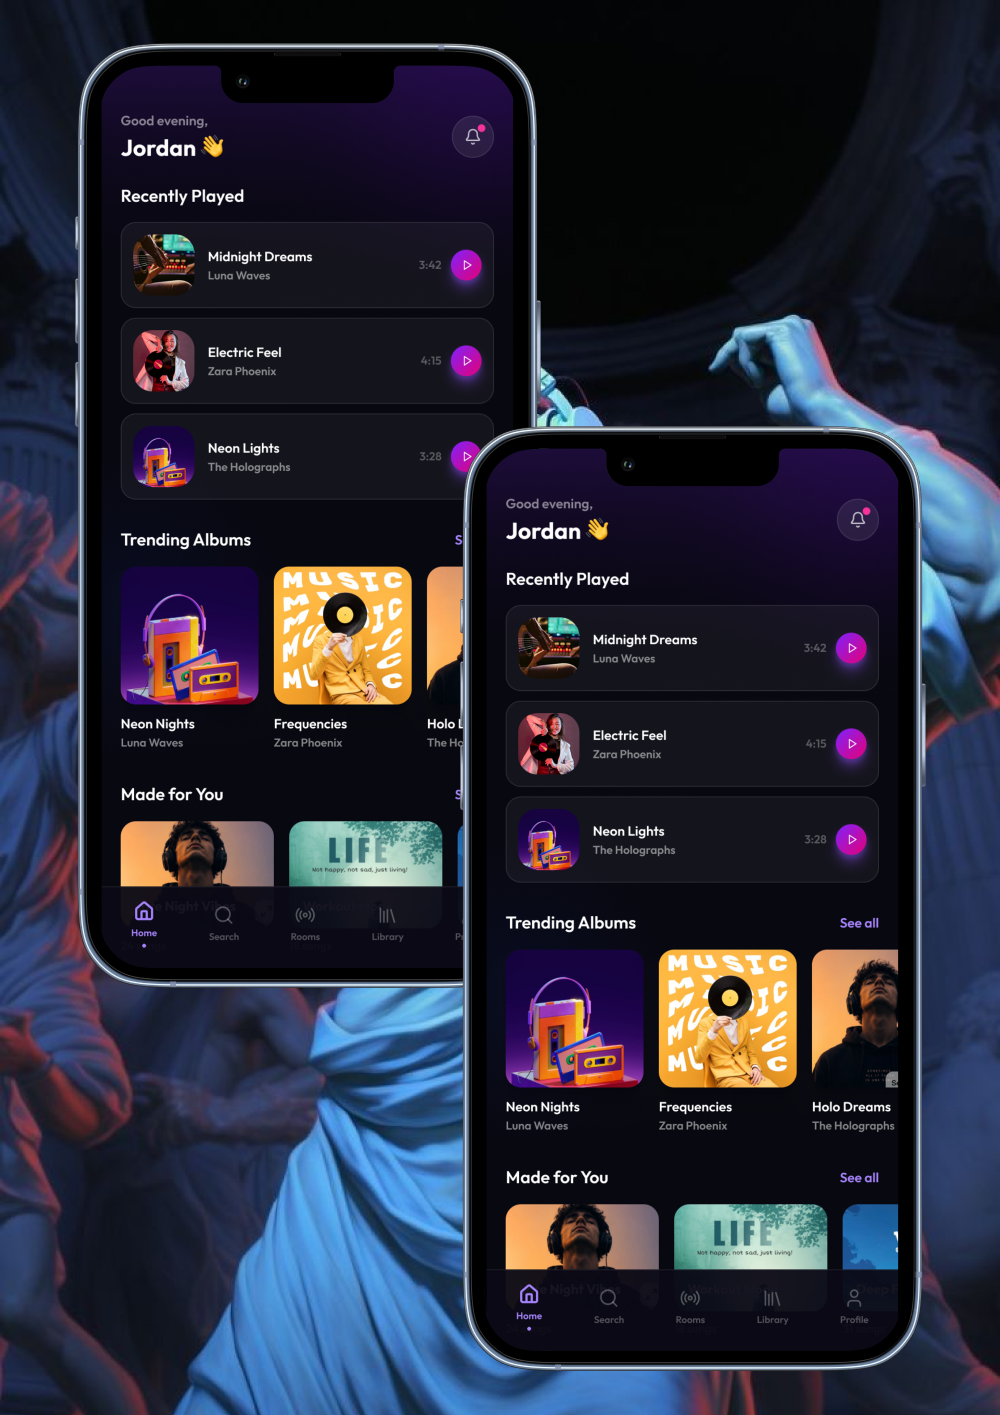
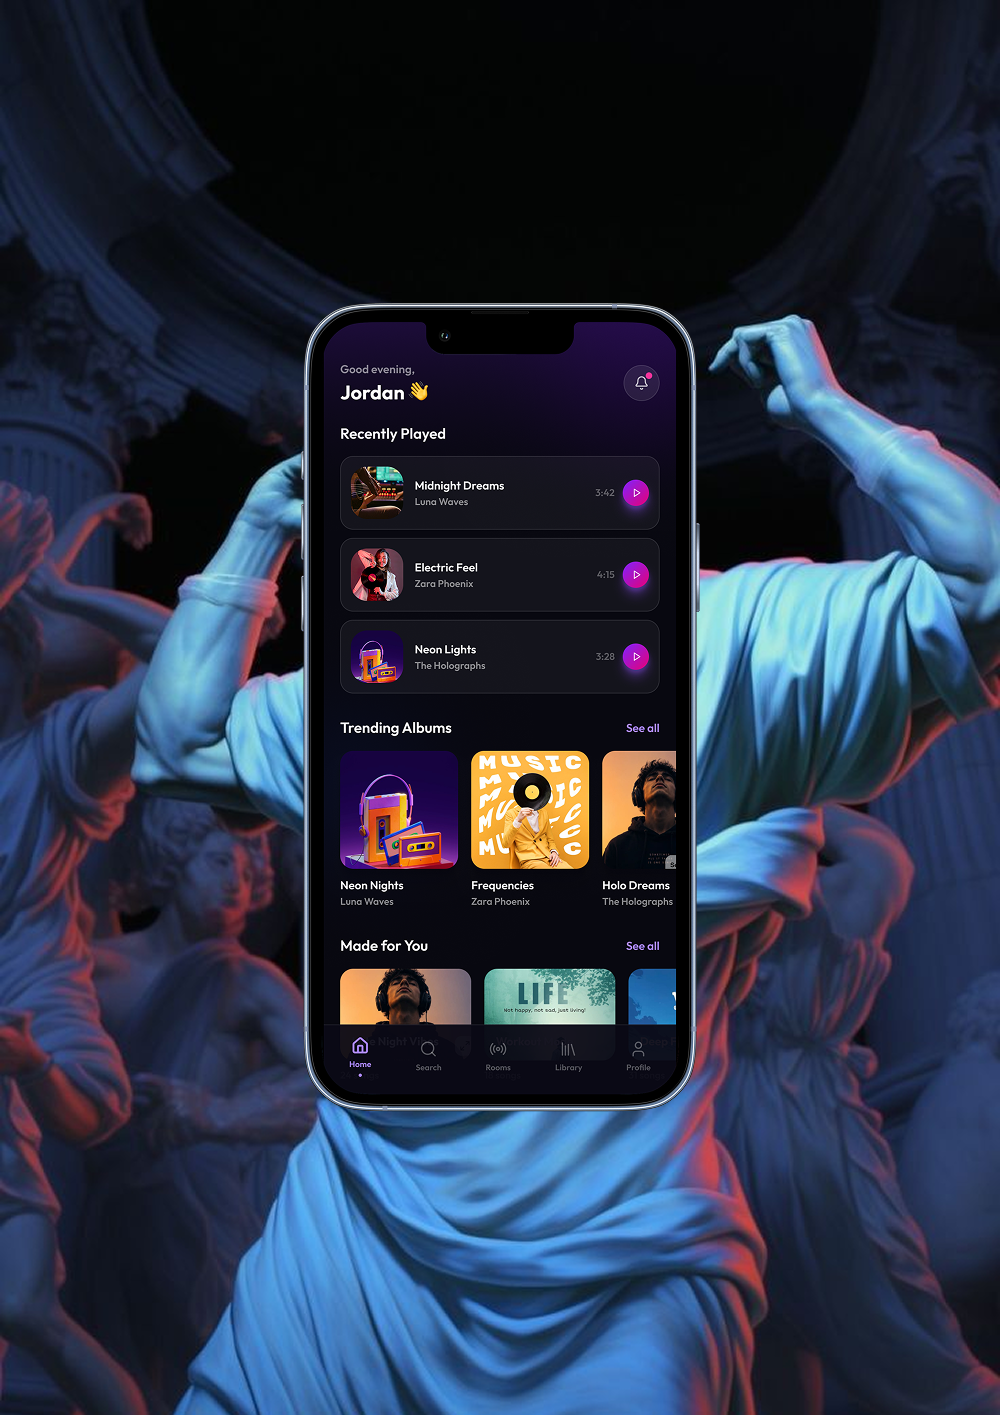
Updated Chnages

diff --git a/My Website/home-1.html b/My Website/home-1.html
@@ -424,20 +424,20 @@
                         <div class="col-md-6 col-lg-3">
 
                             <a href="project.html" class="mil-portfolio-item mil-square-item mil-up mil-mb-30">
-                                <img src="img/covers/4.jpg" alt="cover">
+                                <img src="img/covers/Mcare.png" alt="cover">
                                 <div class="mil-project-descr">
-                                    <h4 class="mil-upper mil-mb-20">Horizontal elevator</h4>
+                                    <h4 class="mil-upper mil-mb-20">Mcare</h4>
                                     <div class="mil-divider-sm mil-mb-20"></div>
-                                    <p>Consectetur adipiscing elit, sed do eiusmod tempor incididunt ut labore aliqua.</p>
+                                    <p>Modern maternal care platform that simplifies how expecting mothers discover, connect with, and manage personalized doula support throughout pregnancy and postpartum care.</p>
                                 </div>
                             </a>
 
                             <a href="project.html" class="mil-portfolio-item mil-square-item mil-up mil-mb-30">
-                                <img src="img/covers/5.jpg" alt="cover">
+                                <img src="img/covers/Webpages.png" alt="cover">
                                 <div class="mil-project-descr">
-                                    <h4 class="mil-upper mil-mb-20">Home Decor</h4>
+                                    <h4 class="mil-upper mil-mb-20">Web Page Designs</h4>
                                     <div class="mil-divider-sm mil-mb-20"></div>
-                                    <p>Consectetur adipiscing elit, sed do eiusmod tempor incididunt ut labore aliqua.</p>
+                                    <p>Designing modern, user-focused websites that communicate brand identity while ensuring seamless user experiences.</p>
                                 </div>
                             </a>
 
@@ -445,11 +445,11 @@
                         <div class="col-md-6 col-lg-3">
 
                             <a href="project.html" class="mil-portfolio-item mil-long-item mil-up mil-mb-30">
-                                <img src="img/covers/6.jpg" alt="cover">
+                                <img src="img/covers/Savora.png" alt="cover">
                                 <div class="mil-project-descr">
-                                    <h4 class="mil-upper mil-mb-20">Modern architecture</h4>
+                                    <h4 class="mil-upper mil-mb-20">Savora</h4>
                                     <div class="mil-divider-sm mil-mb-20"></div>
-                                    <p>Consectetur adipiscing elit, sed do eiusmod tempor incididunt ut labore aliqua.</p>
+                                    <p>Track income, expenses, and savings from one centralized dashboard.</p>
                                 </div>
                             </a>
 
@@ -468,8 +468,8 @@
                         <div class="col-12">
 
                             <div class="mil-center mil-mb-90">
-                                <span class="mil-suptitle mil-upper mil-up mil-mb-30">How We Work</span>
-                                <h2 class="mil-upper mil-up">This is How Magic Happens</h2>
+                                <span class="mil-suptitle mil-upper mil-up mil-mb-30">Experience</span>
+                                <h2 class="mil-upper mil-up">4+ Years of Product Design Experience</h2>
                             </div>
 
                         </div>
@@ -479,9 +479,11 @@
                                 <div class="mil-icon mil-icon-border mil-mb-30">
                                     <img src="img/icons/7.svg" alt="icon">
                                 </div>
-                                <h4 class="mil-upper mil-mb-20">High Efficiency</h4>
+                                <h4 class="mil-upper mil-mb-20">WBO Solutions</h4>
                                 <div class="mil-divider-sm mil-mb-20"></div>
-                                <p>Lorem ipsum dolor sit amet, consectetur adipiscing elit, sed do eiusmod tempor incididunt ut labore aliqua.</p>
+                                <p>2020 - 2023
+                                </br>Created impactful visual experiences for e-commerce brands through storefronts, digital marketing assets, and user-focused design solutions.
+                                </p>
                             </div>
 
                         </div>
@@ -491,9 +493,11 @@
                                 <div class="mil-icon mil-icon-border mil-mb-30">
                                     <img src="img/icons/8.svg" alt="icon">
                                 </div>
-                                <h4 class="mil-upper mil-mb-20">Team of Experts</h4>
+                                <h4 class="mil-upper mil-mb-20">RichestSoft</h4>
                                 <div class="mil-divider-sm mil-mb-20"></div>
-                                <p>Lorem ipsum dolor sit amet, consectetur adipiscing elit, sed do eiusmod tempor incididunt ut labore aliqua.</p>
+                                <p>2023 - 2025
+                                </br>Designed intuitive web experiences, user interfaces, and brand assets for digital products, helping businesses enhance their online presence and user engagement.
+                                </p>
                             </div>
 
                         </div>
@@ -503,9 +507,11 @@
                                 <div class="mil-icon mil-icon-border mil-mb-30">
                                     <img src="img/icons/9.svg" alt="icon">
                                 </div>
-                                <h4 class="mil-upper mil-mb-20">Technology</h4>
+                                <h4 class="mil-upper mil-mb-20">DitsTek Innovations</h4>
                                 <div class="mil-divider-sm mil-mb-20"></div>
-                                <p>Lorem ipsum dolor sit amet, consectetur adipiscing elit, sed do eiusmod tempor incididunt ut labore aliqua.</p>
+                                <p>May 2025 – Present </br>
+                                    Designing enterprise-grade web and mobile products across healthcare, marketplaces, renewable energy, and SaaS platforms while collaborating directly with clients and stakeholders.
+                                </p>
                             </div>
 
                         </div>
@@ -514,55 +520,6 @@
             </section>
             <!-- how we work end -->
 
-            <!-- blog -->
-            <section>
-                <div class="container mil-p-0-60">
-                    <div class="mil-background-grid mil-softened"></div>
-
-                    <div class="row">
-                        <div class="col-12">
-
-                            <div class="mil-center mil-mb-90">
-                                <span class="mil-suptitle mil-upper mil-up mil-mb-30">Insights</span>
-                                <h2 class="mil-upper mil-up mil-mb-30">Ideas and News</h2>
-                                <a href="blog.html" class="mil-link mil-upper mil-up">See All <span class="mil-arrow"><img src="img/icons/1.svg" alt="arrow"></span></a>
-                            </div>
-
-                        </div>
-                        <div class="col-lg-6">
-
-                            <a href="publication.html" class="mil-blog-card mil-mb-60">
-                                <div class="mil-cover mil-up mil-long">
-                                    <img src="img/covers/1.jpg" alt="cover">
-                                    <div class="mil-date">11.09.2023</div>
-                                </div>
-                                <div class="mil-description">
-                                    <span class="mil-suptitle mil-upper mil-up mil-mb-30">Urban</span>
-                                    <h4 class="mil-upper mil-up mil-mb-30">Tips for Planning a Project</h4>
-                                    <p class="mil-up">Lorem ipsum dolor sit amet, consectetur adipiscing elit, sed do eiusmod tempor incididunt ut labore et dolore magna.</p>
-                                </div>
-                            </a>
-
-                        </div>
-                        <div class="col-lg-6">
-
-                            <a href="publication.html" class="mil-blog-card mil-mb-60">
-                                <div class="mil-cover mil-up mil-long">
-                                    <img src="img/covers/6.jpg" alt="cover">
-                                    <div class="mil-date">11.09.2023</div>
-                                </div>
-                                <div class="mil-description">
-                                    <span class="mil-suptitle mil-upper mil-up mil-mb-30">Perspectives</span>
-                                    <h4 class="mil-upper mil-up mil-mb-30">Design a perfect home</h4>
-                                    <p class="mil-up">Lorem ipsum dolor sit amet, consectetur adipiscing elit, sed do eiusmod tempor incididunt ut labore et dolore magna.</p>
-                                </div>
-                            </a>
-
-                        </div>
-                    </div>
-                </div>
-            </section>
-            <!-- blog end -->
 
             <!-- core -->
             <section class="mil-dark-bg mil-relative mil-o-hidden">